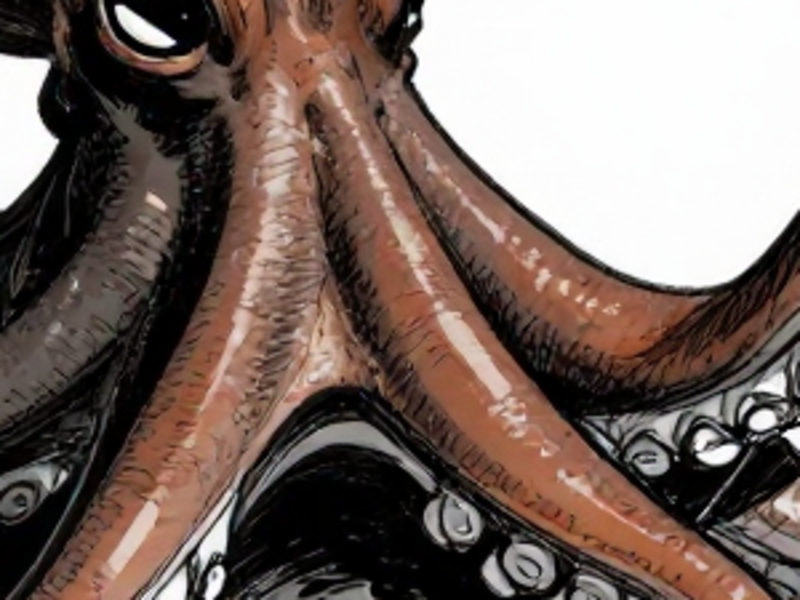
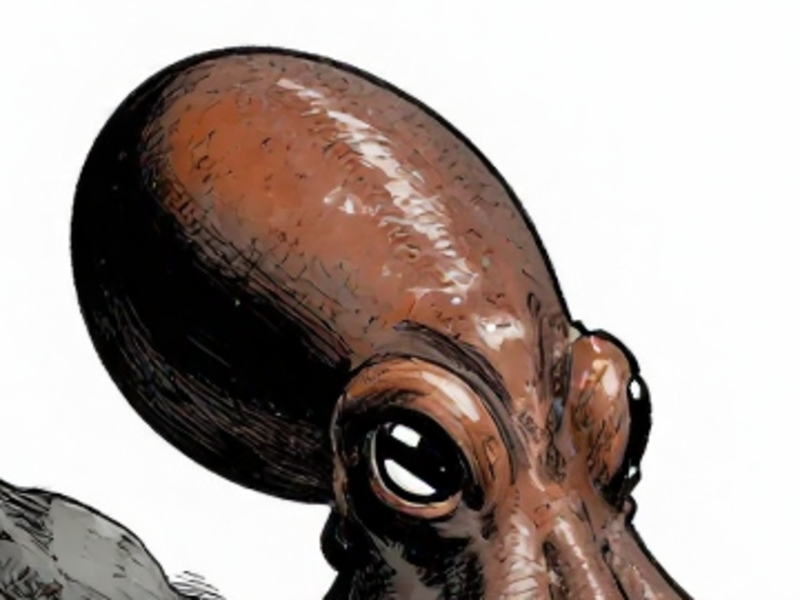
配图: 图二改成整个头部，标出头部角度不对
原来的局部只截了触手连接处，问题其实在整个头的朝向，换成从头顶到眼睛的完整头部。

diff --git a/articles/2026-10-01-ink-style-photorealistic/images/one-shot-flaws-feature-grid.source.html b/articles/2026-10-01-ink-style-photorealistic/images/one-shot-flaws-feature-grid.source.html
@@ -15,7 +15,7 @@
         <div style="width: 100%; aspect-ratio: 4/3; border-radius: 4px; overflow: hidden;">
           <img src="file:///Users/husongtao/Projects/newsletters/articles/2026-10-01-ink-style-photorealistic/images/one-shot-flaw-body.png" style="width: 100%; height: 100%; object-fit: cover; object-position: top; display: block;">
         </div>
-        <figcaption style="font-size: 14px; color: #6B7280; line-height: 1.6;">图二 · 触手从脖子长出，没有腕间膜</figcaption>
+        <figcaption style="font-size: 14px; color: #6B7280; line-height: 1.6;">图二 · 头部的角度不对</figcaption>
       </figure>
       <figure style="margin: 0; display: flex; flex-direction: column; gap: 10px;">
         <div style="width: 100%; aspect-ratio: 4/3; border-radius: 4px; overflow: hidden;">

diff --git a/articles/2026-10-01-ink-style-photorealistic/draft.md b/articles/2026-10-01-ink-style-photorealistic/draft.md
@@ -11,7 +11,7 @@
 
 比如出来的图片构图不好，或者细节和真实生物不同，那么我还是要再让 AI 出几张，才能抽到满意的效果。
 
-![「图组：左边是一次出图的原图，白底钢笔排线风格的红褐色章鱼趴在礁石上；右边四张局部放大，分别是触手直接从脖子长出、没有腕间膜，礁石用钢笔排线而不是纯黑块面，背景一片空白没有底色，眼睛结构不对」](images/one-shot-flaws-feature-grid.png)
+![「图组：左边是一次出图的原图，白底钢笔排线风格的红褐色章鱼趴在礁石上；右边四张局部放大，分别是头部角度不对，礁石用钢笔排线而不是纯黑块面，背景一片空白没有底色，眼睛结构不对」](images/one-shot-flaws-feature-grid.png)
 
 为了更好的控制，我先让 AI 出了一幅实景图。为了保证效果正确，我还特意加上了专门的提示词。
 
